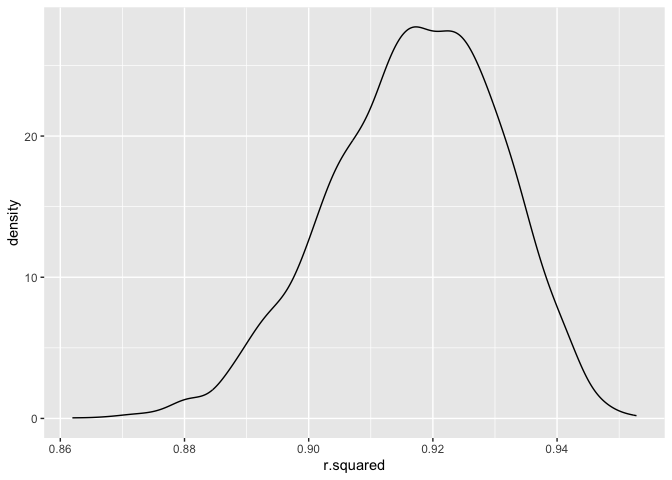
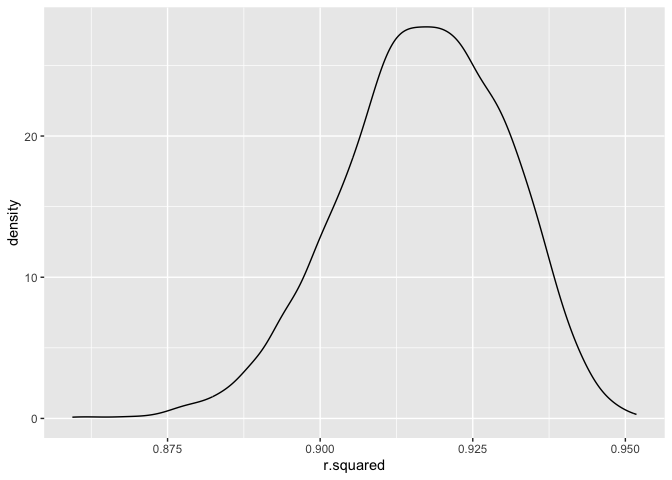
Post-completion Knit - Knit the markdown for revision

diff --git a/p8105_hw6_kl3453.md b/p8105_hw6_kl3453.md
@@ -253,8 +253,8 @@ count = nrow(r_squared)
 me = zval * (r_sd/sqrt(count))
 ```
 
-- r^2 Mean: 0.9170256
-- r^2 95% CI: (0.9166461, 0.9174051)
+- r^2 Mean: 0.9169099
+- r^2 95% CI: (0.9165334, 0.9172864)
 
 **r^2 plot**
 
@@ -332,9 +332,10 @@ birthweight_df =
 
 **Proposed Model**
 
-- BirthWeight = legnth, gestational age, sex, mrace, frace
-  - Hypothesis: race of mother/father may act as social factors that may
-    significantly affect birthweight.
+The proposed model will be a linear regression as the outcome is a
+continuous variable. - BirthWeight = length, gestational age, sex,
+mrace, frace - Hypothesis: race of mother/father may act as social
+factors that may significantly affect birthweight.
 
 ``` r
 proposed_model = lm(bwt ~ blength + gaweeks + babysex + mrace + frace, data = birthweight_df)
@@ -357,7 +358,7 @@ main_model = lm(bwt ~ blength + gaweeks, data = birthweight_df)
 interaction_model = lm(bwt ~ blength + bhead + babysex + blength:bhead + blength:babysex + bhead:babysex + bhead:blength:babysex, data = birthweight_df)
 ```
 
-### Comparing Models
+### Comparing Models: Residuals vs. Predicted
 
 **Create Test/Training Data**
 
@@ -377,3 +378,72 @@ cv_bwt_df =
     rmse_main    = map2_dbl(main_mod, test, \(mod, df) rmse(model = mod, data = df)),
     rmse_inter = map2_dbl(inter_mod, test, \(mod, df) rmse(model = mod, data = df)))
 ```
+
+**Proposed Model: Residuals vs. Predictors**
+
+``` r
+#Take one test sample + plot the predictoed vs. residuals for each sample.
+cv_bwt_df |> 
+  pull(test) |> 
+  nth(1) |> 
+  as_tibble() |> 
+  add_predictions(proposed_model) |> 
+  add_residuals(proposed_model) |> 
+  ggplot(aes(x = pred, y = resid)) + 
+  geom_point() 
+```
+
+![](p8105_hw6_kl3453_files/figure-gfm/unnamed-chunk-23-1.png)<!-- -->
+
+**Main Model: Residuals vs. Predictors**
+
+``` r
+cv_bwt_df |> 
+  pull(test) |> 
+  nth(1) |> 
+  as_tibble() |> 
+  add_predictions(main_model) |> 
+  add_residuals(main_model) |> 
+  ggplot(aes(x = pred, y = resid)) + 
+  geom_point() 
+```
+
+![](p8105_hw6_kl3453_files/figure-gfm/unnamed-chunk-24-1.png)<!-- -->
+
+**3 Way Model: Residuals vs. Predictors**
+
+``` r
+cv_bwt_df |> 
+  pull(test) |> 
+  nth(1) |> 
+  as_tibble() |> 
+  add_predictions(interaction_model) |> 
+  add_residuals(interaction_model) |> 
+  ggplot(aes(x = pred, y = resid)) + 
+  geom_point() 
+```
+
+![](p8105_hw6_kl3453_files/figure-gfm/unnamed-chunk-25-1.png)<!-- -->
+
+By comparing the models based on residuals and predictors, it seems they
+all fit quite similarly.
+
+- In more detail, it seems that the 3 way model fits this particular
+  test sample a bit better as the scatterplot is more tightly comppacted
+  around the resid = 0 line.
+
+### Comparing Models: MSE
+
+``` r
+cv_bwt_df |> 
+  select(starts_with("rmse")) |> 
+  pivot_longer(
+    everything(),
+    names_to = "model", 
+    values_to = "rmse",
+    names_prefix = "rmse_") |> 
+  mutate(model = fct_inorder(model)) |> 
+  ggplot(aes(x = model, y = rmse)) + geom_violin()
+```
+
+![](p8105_hw6_kl3453_files/figure-gfm/unnamed-chunk-26-1.png)<!-- -->
